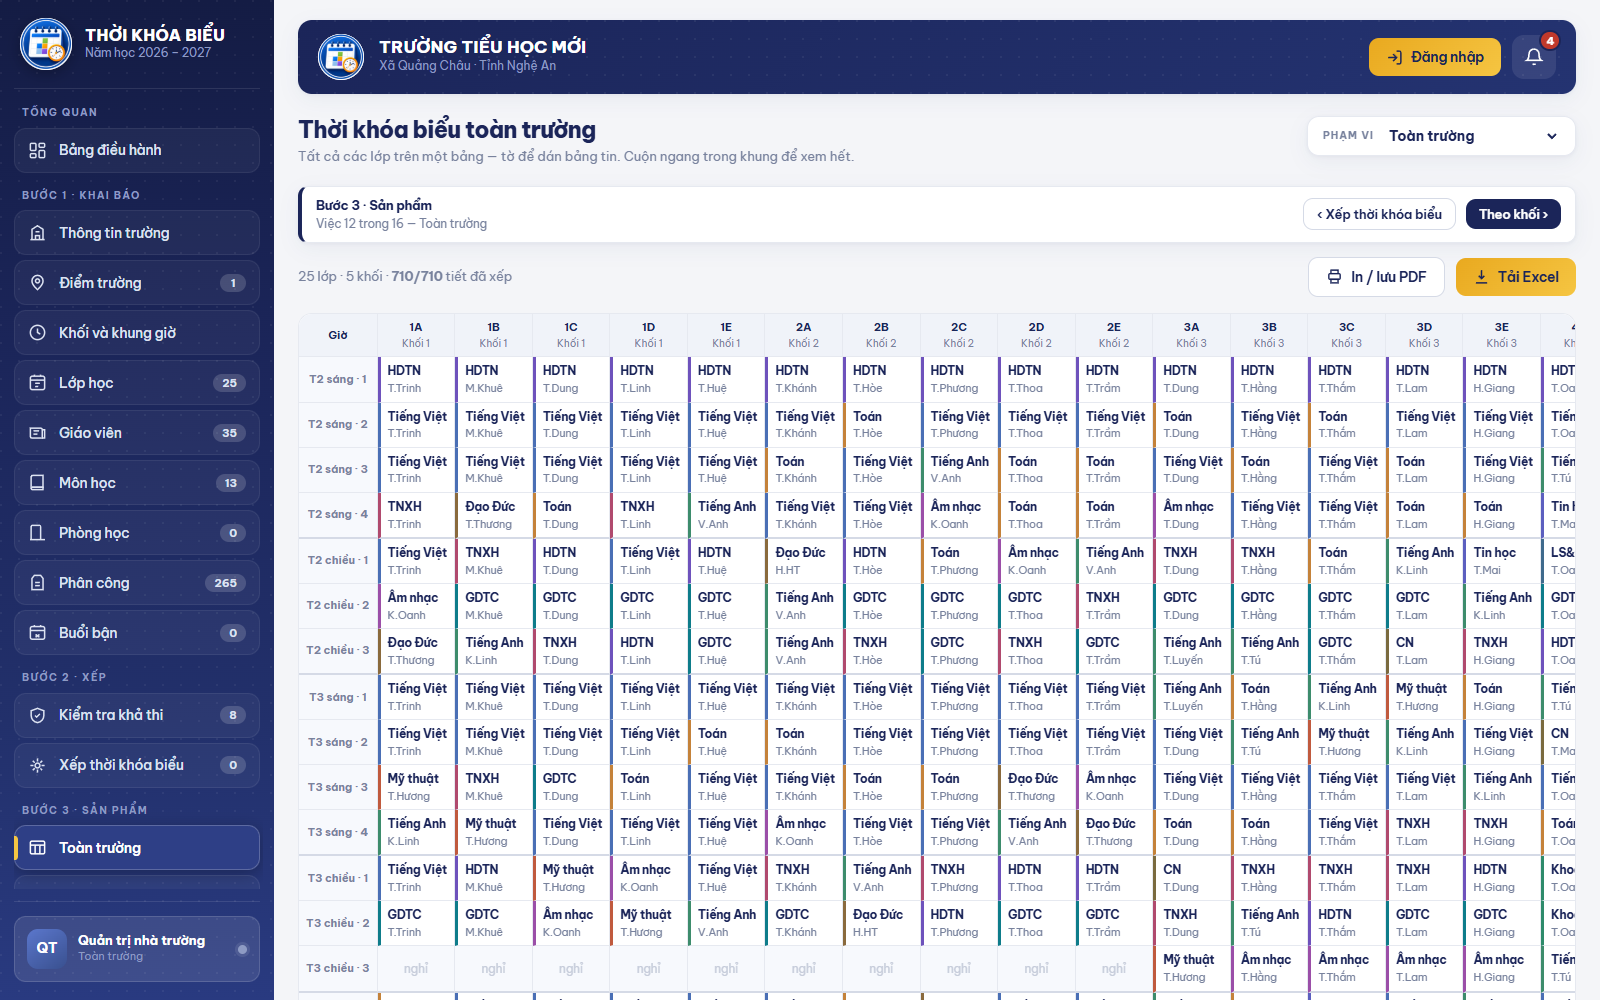
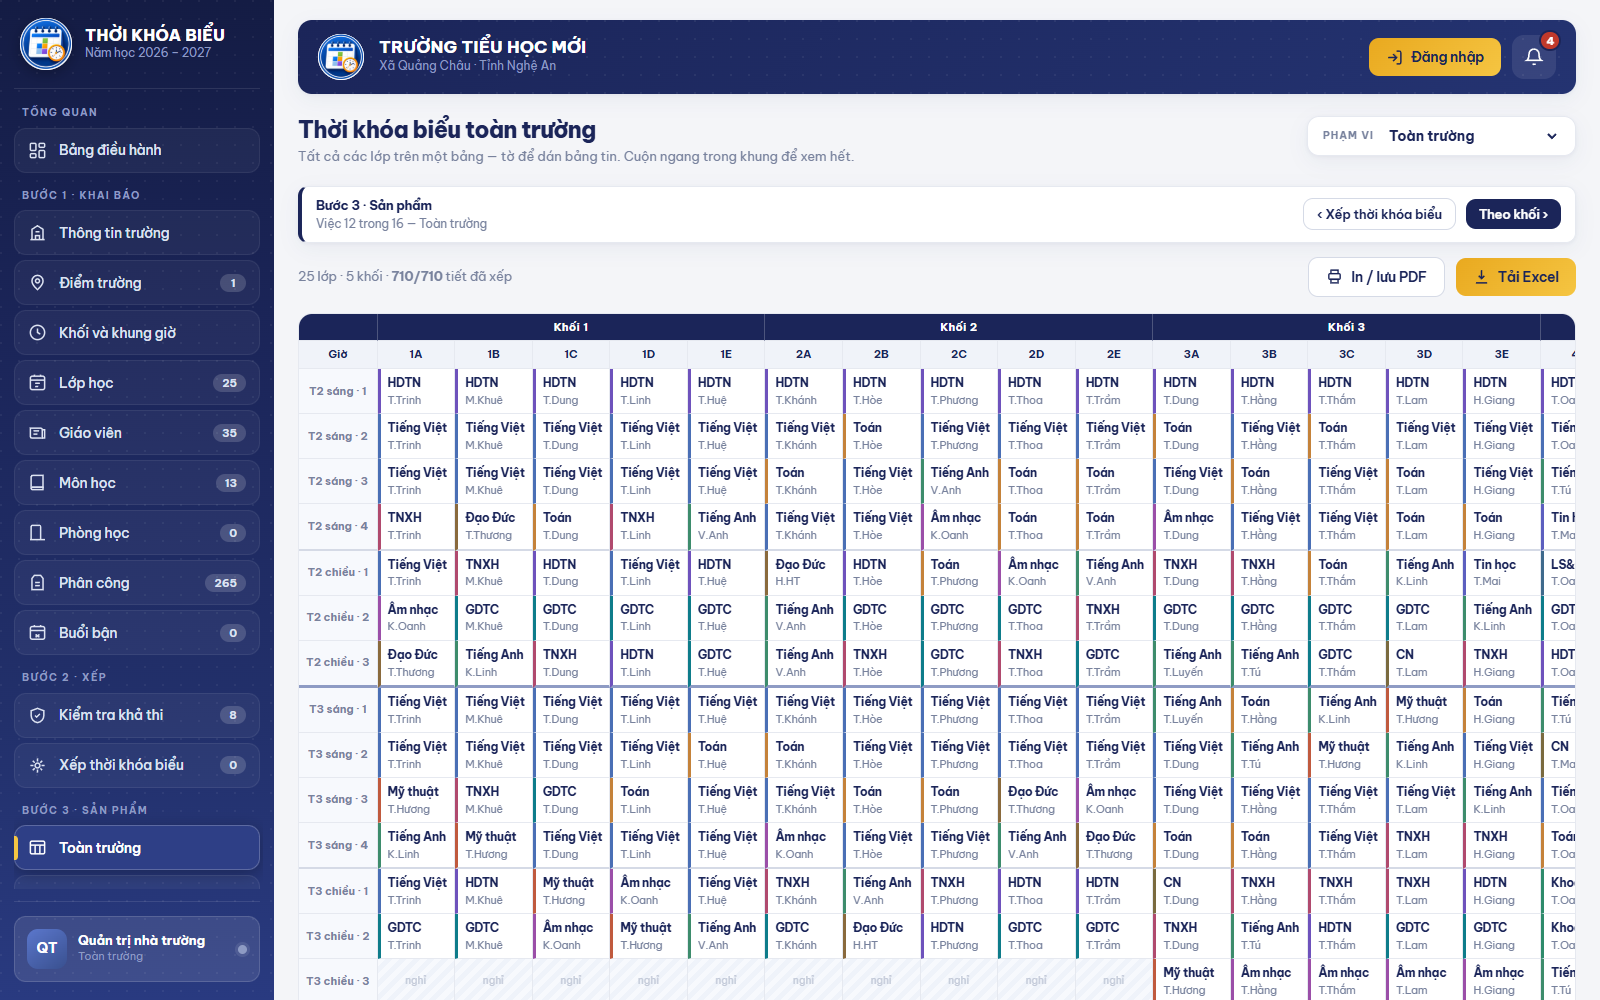
Trang điểm gương mặt sản phẩm: dải khối, tiêu đề dính, mã lớp đọc được
LƯỚI RỘNG — thứ khách hàng nhìn đầu tiên:
- Sửa lỗi tự gây: nhúng lưới vào Bảng điều hành bằng cách bọc thêm một
  khung cuộn, thành hai khung lồng nhau nên hàng tiêu đề dính trôi mất
  khi cuộn. Nay luoiRongHTML nhận tham số `cao`, khung cuộn vẫn là
  .tt-boc duy nhất — tiêu đề tên lớp dính đỉnh, cột giờ dính trái.
- Thêm dải KHỐI gộp ô nền navy phía trên tên lớp: 25 cột liền nhau không
  có mốc thì mắt lạc, nay chia thành năm mảng nhìn ra ngay.
- Vạch đậm giữa các ngày, vạch nhạt giữa hai buổi trong ngày.
- Ô "nghỉ" kẻ sọc mờ để mắt bỏ qua, vẫn giữ chữ (bỏ trống thì lẫn với
  tiết chưa xếp).
- Bảng điều hành truyền ds đã sắp theo khối, không thì dải khối vỡ vụn.

MÃ LỚP: cơ sở dữ liệu cũ để trống ma_lop nên bảng bày mã UUID 36 ký tự —
mà đó chính là thứ người dùng phải gõ vào Excel. Nút "Đặt lại mã lớp"
(chỉ hiện khi có mã xấu) đổi thành DL-2A, DD-2A theo tiền tố điểm
trường, chống trùng, chỉ đụng maLop nên không xê dịch tham chiếu nào.

Kiểm chứng: npm test 230/230 (+5), npm run soi 140/140, chụp lại ảnh
giao diện bằng Chrome thật.

Changed region(s): [[0.1875, 0.31, 1.0, 1.0]]

diff --git a/src/index.html b/src/index.html
@@ -458,6 +458,19 @@ table.tt td.goc,table.tt th.canh{position:sticky;left:0;z-index:2;background:#F7
 table.tt td b{display:block;font-weight:700;font-size:11.5px}
 table.tt td span{display:block;font-size:10.5px;color:var(--chu-mo)}
 table.tt tr.het td{border-bottom:2px solid var(--ke-2)}
+/* Vạch đậm giữa hai NGÀY — mốc lớn nhất khi mắt quét dọc bảng 30 dòng */
+table.tt tr.het-ngay td{border-bottom:3px solid var(--nav-mo)}
+/* Dải khối gộp ô trên tên lớp. Hai hàng tiêu đề cùng dính, nên hàng dưới
+   phải lùi xuống đúng chiều cao hàng trên — chốt cứng 26px cho khớp. */
+table.tt.co-khoi thead tr.dai-khoi th{top:0;height:26px;z-index:5;
+  background:var(--nav);color:#fff;font-size:10.5px;letter-spacing:.06em;
+  text-align:center;border-right:1px solid rgba(255,255,255,.22)}
+table.tt.co-khoi thead tr.dai-khoi th.goc{background:var(--nav);z-index:6}
+table.tt.co-khoi thead tr:nth-child(2) th{top:26px}
+/* Ô "nghỉ": kẻ sọc mờ để mắt bỏ qua ngay, khỏi phải đọc từng chữ.
+   Vẫn giữ chữ — bỏ trống thì lẫn với tiết chưa xếp. */
+table.tt td.o-nghi-t{text-align:center;font-size:9.5px;color:#C2C9D8;letter-spacing:.04em;
+  background:repeating-linear-gradient(135deg,#F7F9FD,#F7F9FD 5px,#EFF3FA 5px,#EFF3FA 10px)}
 
 /* đèn báo tình trạng máy chủ + khối mã trong hộp thoại */
 .cham-mc{width:9px;height:9px;flex:0 0 9px;border-radius:50%;background:#8E9BC4;box-shadow:0 0 0 3px rgba(255,255,255,.09)}
@@ -1582,6 +1595,36 @@ function dongBoPhongTin(){
    Mã lớp mang tiền tố điểm trường nên ba điểm trường cùng có lớp "1A" vẫn
    phân biệt được — đúng nguyên tắc tham chiếu bằng mã, không bằng tên. */
 const CHU_LOP='ABCDEFGHIJKLMNOPQRSTUVWXYZ';
+/* Mã lớp trông có xấu không — dùng để mời người dùng đặt lại.
+   Cơ sở dữ liệu dựng trước khi có cột `ma_lop` để trống ô đó, nên phần mềm
+   phải bày tạm mã UUID của máy chủ: một chuỗi 36 ký tự vô nghĩa nằm chình
+   ình giữa bảng. Mã lớp là thứ NGƯỜI đọc và gõ vào Excel, không phải mã máy. */
+const maXauXi = l => {
+  const m=String(l.maLop||l.id||'');
+  return !l.maLop || m.length>14 || /^[0-9a-f]{8}-[0-9a-f]{4}/i.test(m);
+};
+/* Tiền tố lấy chữ đầu các từ trong tên điểm trường: "Điểm trường Diễn Liên" → DL */
+function tienToDT(ten){
+  const chu=khongDau(String(ten||'').replace(/^\s*Điểm\s+trường\s*/i,''))
+    .split('-').filter(Boolean);
+  return chu.map(x=>x[0]).join('').toUpperCase().slice(0,3) || 'DT';
+}
+/* Đặt lại mã cho các lớp có mã xấu: <tiền tố điểm trường>-<tên lớp>.
+   Chỉ đụng `maLop` — mọi tham chiếu khác đi bằng `id` nên không xê dịch gì. */
+function datLaiMaLop(){
+  const daCo=new Set(S.lop.map(l=>l.maLop).filter(Boolean));
+  let doi=0;
+  S.lop.forEach(l=>{
+    if(!maXauXi(l)) return;
+    daCo.delete(l.maLop);
+    const goc=tienToDT(dtId(S.lopDT[l.id])?.ten)+'-'+String(l.ten||'').replace(/\s+/g,'');
+    let m=goc, i=1;
+    while(daCo.has(m)) m=goc+'-'+(++i);
+    daCo.add(m); l.maLop=m; doi++;
+  });
+  return doi;
+}
+
 function sinhLop(khoi, so, tienTo, dt){
   const r=[], n=Math.max(0,Math.min(26,+so||0));
   for(let i=0;i<n;i++){
@@ -3648,9 +3691,7 @@ function mDieuHanh(){
         <button class="b b-vien" data-di="tkbkhoi">Theo khối</button>
         <button class="b b-vang" data-di="xuatin">Xuất và in</button>
       </div>
-      <div style="max-height:46vh;overflow:auto;border:1px solid var(--ke);border-radius:var(--r2)">
-        ${luoiRongHTML(ds,true)}
-      </div>
+      ${luoiRongHTML(xepTheoKhoi(ds),true,'46vh')}
       <div class="gy" style="margin-top:10px">Cuộn trong khung để xem hết.
         ${KHO.banCongBo===KHO.version&&KHO.version?'Giáo viên đang xem đúng bản này.'
           :coMayChu()&&KHO.version?'<b>Chưa công bố</b> — thầy cô chưa xem được bản này.':''}</div>
@@ -4163,24 +4204,48 @@ function hopTimDayThay(){
    ================================================================== */
 
 /* Bảng dùng chung cho cả hai màn hình. `ds` đã sắp sẵn thứ tự cột. */
-function luoiRongHTML(ds, ghiKhoi){
+/* Lưới rộng — GƯƠNG MẶT của sản phẩm. Bốn thứ làm nó đọc được ở quy mô
+   25–60 cột × 30 dòng, và cả ba đều là chuyện đọc chứ không phải trang trí:
+
+   1. Tiêu đề DÍNH cả hai chiều: hàng tên lớp dính đỉnh, cột giờ dính trái.
+      Cuộn tới giữa bảng mà không biết đang xem lớp nào, tiết nào thì bảng
+      vô dụng. ⚠ Vì vậy KHUNG CUỘN PHẢI LÀ `.tt-boc`, đừng bọc thêm một
+      khung cuộn nữa bên ngoài — hai khung lồng nhau là tiêu đề trôi mất.
+      Cần giới hạn chiều cao thì truyền tham số `cao`.
+   2. Dải KHỐI gộp ô phía trên tên lớp — 25 cột liền nhau không có mốc thì
+      mắt lạc; dải khối chia bảng thành năm mảng nhìn ra ngay.
+   3. Vạch đậm giữa các NGÀY, vạch nhạt giữa hai buổi trong ngày.
+   4. Ô "nghỉ" kẻ sọc mờ: mắt nhận ra ngay là "khối này tan rồi", không
+      phải đọc từng chữ. Vẫn giữ chữ *nghỉ* — bỏ trống thì lẫn với tiết
+      chưa xếp, đó là lỗi đọc sai đã nêu trong bản giao việc. */
+function luoiRongHTML(ds, ghiKhoi, cao){
   if(!ds.length) return `<div class="canhbao"><div class="cb-ic">i</div><div class="cb-t">
     <b>Không có lớp nào trong phạm vi đang xem</b></div></div>`;
   const bb=buoiBat();
   const hang=dongGio();
-  return `<div class="tt-boc"><table class="tt">
-    <thead><tr><th class="goc">Giờ</th>
-      ${ds.map(l=>`<th>${esc(tenLopDay(l.id))}${ghiKhoi?`<span style="display:block;font-weight:400;
-        font-size:10px;color:var(--chu-mo)">Khối ${khoiCuaLop(l)}</span>`:''}</th>`).join('')}
+  /* Gộp cột theo khối để dựng dải phía trên — ds phải đã sắp theo khối */
+  const daiKhoi=[];
+  ds.forEach(l=>{
+    const k=khoiCuaLop(l), cuoi=daiKhoi[daiKhoi.length-1];
+    if(cuoi && cuoi.k===k) cuoi.n++; else daiKhoi.push({k, n:1});
+  });
+  return `<div class="tt-boc"${cao?` style="max-height:${cao}"`:''}><table class="tt${ghiKhoi?' co-khoi':''}">
+    <thead>
+      ${ghiKhoi?`<tr class="dai-khoi"><th class="goc"></th>
+        ${daiKhoi.map(x=>`<th colspan="${x.n}">Khối ${x.k}</th>`).join('')}</tr>`:''}
+      <tr><th class="goc">Giờ</th>
+      ${ds.map(l=>`<th>${esc(tenLopDay(l.id))}</th>`).join('')}
     </tr></thead><tbody>
     ${hang.map((o,i)=>{
       const k=bb.find(x=>x.thu===o.thu&&x.buoi===o.buoi);
-      const cuoiBuoi = !hang[i+1] || hang[i+1].thu!==o.thu || hang[i+1].buoi!==o.buoi;
-      return `<tr class="${cuoiBuoi?'het':''}">
+      const sau=hang[i+1];
+      const hetNgay = !sau || sau.thu!==o.thu;
+      const hetBuoi = !hetNgay && sau.buoi!==o.buoi;
+      return `<tr class="${hetNgay?'het-ngay':hetBuoi?'het':''}">
         <td class="goc">${TAT_THU[o.thu]} ${o.buoi==='S'?'sáng':'chiều'} · ${o.tiet}</td>
         ${ds.map(l=>{
           if(k && o.tiet>soTietBuoi(k,khoiCuaLop(l)))
-            return '<td style="background:#F7F9FD;color:#C6CCDA;text-align:center">nghỉ</td>';
+            return '<td class="o-nghi-t">nghỉ</td>';
           const v=S.tkb[l.id]?.[o.khoa];
           if(!v) return '<td></td>';
           const g=gvId(v.gvId);
@@ -5266,6 +5331,7 @@ function mLopHoc(){
   (sua?thanhKhaiBao(`<button class="b b-ch" id="btSinhLop">
       <svg viewBox="0 0 24 24" fill="none" stroke="currentColor"><path d="M12 5v14M5 12h14"/></svg>Tạo lớp hàng loạt</button>
     <button class="b b-vien" id="btThemLop">Thêm một lớp</button>
+    ${ds.some(l=>maXauXi(l))?`<button class="b b-vien" id="btDatLaiMa" style="color:var(--cam)">Đặt lại mã lớp</button>`:''}
     <span style="font-size:12.5px;color:var(--chu-mo)">${ds.length} lớp · ${Object.keys(theoKhoi).length} khối</span>`)
    :nhanChiXem('thêm và sửa lớp học')+'<div style="margin-bottom:14px"></div>')+`
   ${!ds.length?`<div class="canhbao"><div class="cb-ic">!</div><div class="cb-t">
@@ -5775,6 +5841,27 @@ function noiSuKien(){
   /* Lớp học */
   $('#btSinhLop')&&($('#btSinhLop').onclick=hopSinhLop);
   $('#btThemLop')&&($('#btThemLop').onclick=hopThemLop);
+  $('#btDatLaiMa')&&($('#btDatLaiMa').onclick=()=>{
+    const xau=S.lop.filter(maXauXi);
+    hop('Đặt lại mã lớp',
+      `<p style="font-size:13px;margin-bottom:12px"><b>${xau.length} lớp</b> đang mang mã do máy
+        chủ tự sinh — chuỗi dài vô nghĩa, khó đọc và khó gõ vào Excel.</p>
+       <div class="bang" style="max-height:34vh"><table class="dl"><thead><tr>
+         <th>Lớp</th><th>Mã hiện tại</th><th>Mã mới</th></tr></thead><tbody>
+       ${xau.slice(0,12).map(l=>`<tr><td><b>${esc(tenLopDay(l.id))}</b></td>
+         <td style="font-family:ui-monospace,Consolas,monospace;font-size:10.5px;color:var(--chu-mo)">${esc(String(l.maLop||l.id).slice(0,20))}…</td>
+         <td style="font-family:ui-monospace,Consolas,monospace"><b>${esc(tienToDT(dtId(S.lopDT[l.id])?.ten)+'-'+String(l.ten||'').replace(/\\s+/g,''))}</b></td></tr>`).join('')}
+       ${xau.length>12?`<tr><td colspan="3" style="color:var(--chu-mo)">…và ${xau.length-12} lớp khác</td></tr>`:''}
+       </tbody></table></div>
+       <div class="gy" style="margin-top:11px">Chỉ đổi <b>mã lớp</b> — thứ để đối chiếu với tệp Excel.
+        Tên lớp, chủ nhiệm, phân công và thời khóa biểu giữ nguyên hoàn toàn.
+        ${coMayChu()&&duocSuaNguon()?'Bấm <b>Lưu</b> sau đó để ghi lên máy chủ.':''}</div>`,
+      [{ten:'Huỷ',phu:1,lam:dong},{ten:'Đặt lại mã',lam:()=>{
+        const n=datLaiMaLop(); dong();
+        bao(`Đã đặt lại mã cho ${n} lớp.${coMayChu()&&duocSuaNguon()?' Bấm Lưu để ghi lên máy chủ.':''}`);
+        ve();
+      }}]);
+  });
   $$('[data-lopten]').forEach(x=>x.onchange=e=>{
     const l=lopId(x.dataset.lopten); if(!l) return;
     const t=e.target.value.trim(); if(!t) return bao('Tên lớp không được để trống',true);

diff --git a/CLAUDE.md b/CLAUDE.md
@@ -285,6 +285,33 @@ nguyên ảnh gốc là tệp HTML phình thêm 1,8 MB cho một hình 52px.
 cho **Thông tin trường · Môn học · Phòng học** — tệp Excel không chứa ba thứ đó,
 bày nút nhập ở đấy là hứa hão.
 
+#### Lưới rộng — GƯƠNG MẶT của sản phẩm *(trang điểm 2/8/2026)*
+
+`luoiRongHTML(ds, ghiKhoi, cao)` là thứ khách hàng nhìn đầu tiên. Bốn điều
+làm nó đọc được ở quy mô 25–60 cột × 30 dòng, cả bốn là chuyện ĐỌC chứ
+không phải trang trí:
+
+1. **Tiêu đề dính hai chiều** — hàng tên lớp dính đỉnh, cột giờ dính trái.
+   ⚠ Khung cuộn PHẢI là `.tt-boc`. Bọc thêm một khung cuộn nữa bên ngoài
+   là tiêu đề trôi mất — đã dính thật khi nhúng lưới vào Bảng điều hành.
+   Cần giới hạn chiều cao thì truyền tham số `cao`, đừng bọc div.
+2. **Dải KHỐI gộp ô** phía trên tên lớp (nền navy). 25 cột liền nhau không
+   mốc thì mắt lạc; dải khối chia bảng thành năm mảng nhìn ra ngay. Hai
+   hàng tiêu đề cùng dính nên hàng dưới chốt cứng `top:26px`.
+   Truyền `ds` đã sắp theo khối (`xepTheoKhoi`), không thì dải vỡ vụn.
+3. **Vạch đậm giữa các NGÀY** (`tr.het-ngay`), vạch nhạt giữa hai buổi.
+4. **Ô "nghỉ" kẻ sọc mờ** — mắt nhận ra ngay là "khối này tan rồi". Vẫn
+   giữ chữ *nghỉ*: bỏ trống thì lẫn với tiết chưa xếp.
+
+#### Mã lớp phải là mã NGƯỜI đọc được *(2/8/2026)*
+
+Cơ sở dữ liệu dựng trước khi có cột `ma_lop` để trống ô đó, nên bảng Lớp học
+bày ra mã UUID 36 ký tự của máy chủ — mà mã lớp chính là thứ người dùng phải
+gõ vào tệp Excel. Nút **Đặt lại mã lớp** (chỉ hiện khi có mã xấu) đổi thành
+`<tiền tố điểm trường>-<tên lớp>`: `DL-2A`, `DD-2A`. Ba hàm: `maXauXi()`
+nhận diện, `tienToDT()` lấy chữ đầu tên điểm trường, `datLaiMaLop()` đổi và
+chống trùng. Chỉ đụng `maLop` — mọi tham chiếu khác đi bằng `id`.
+
 #### Sản phẩm lên trước, quy trình lùi sau *(2/8/2026)*
 
 Chủ dự án nêu đúng chỗ hổng của quy trình ba bước: *"sản phẩm đầu ra quan
